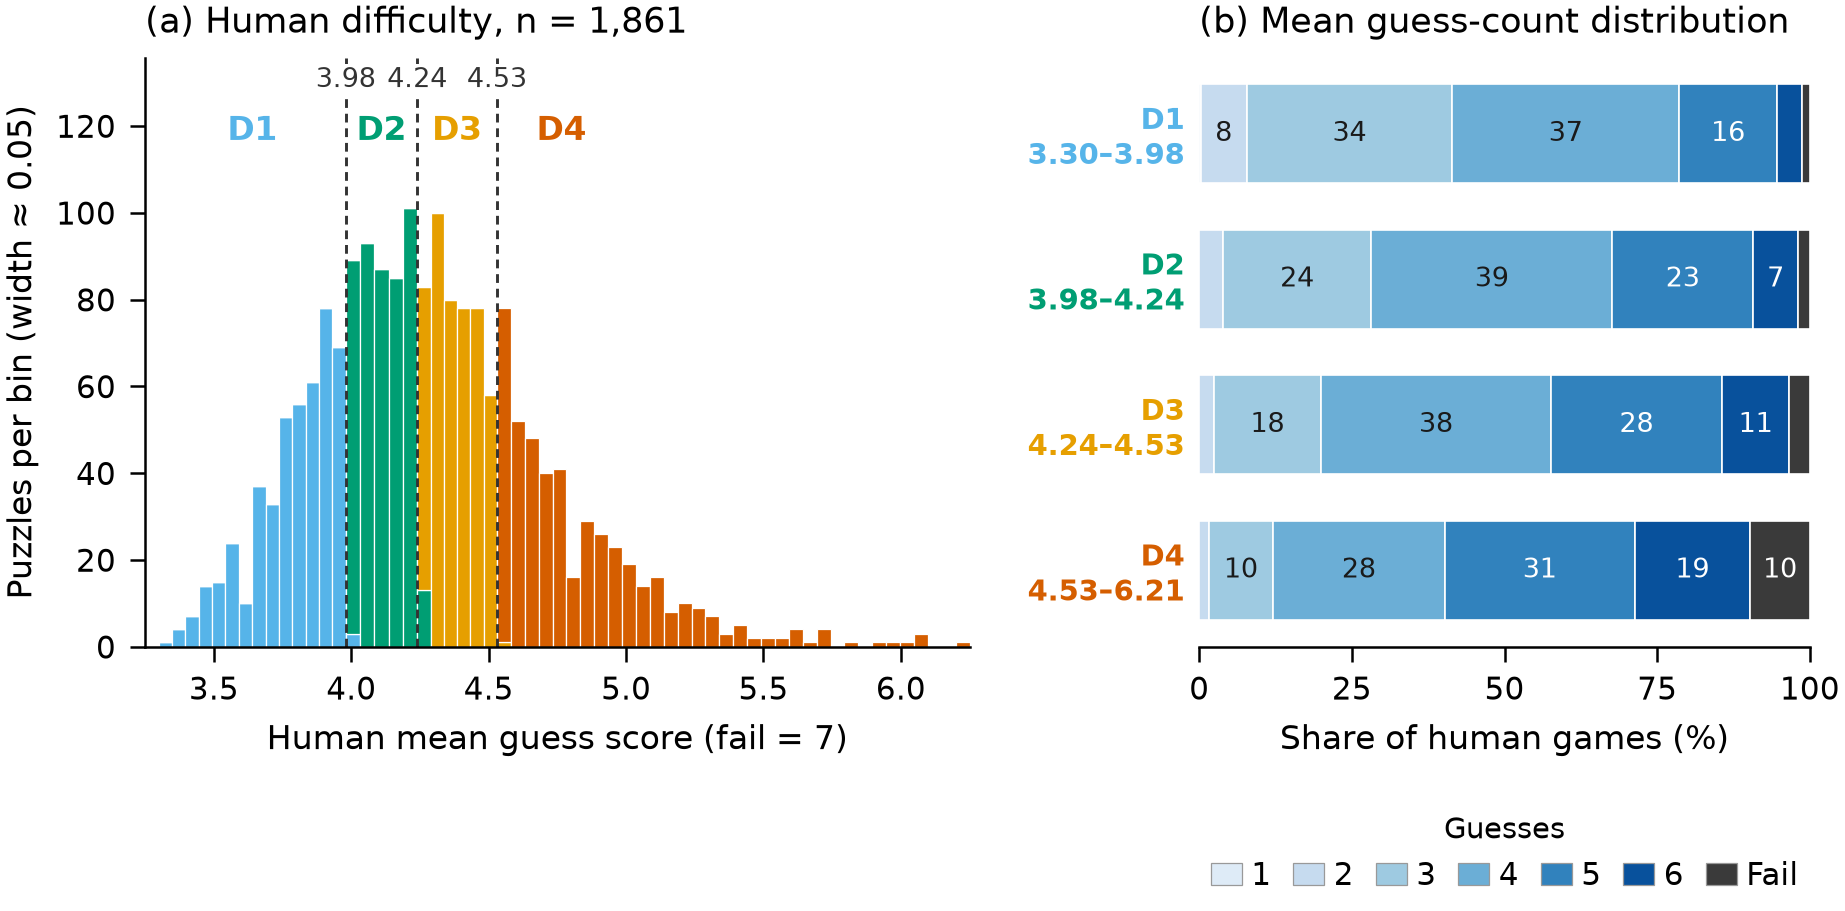
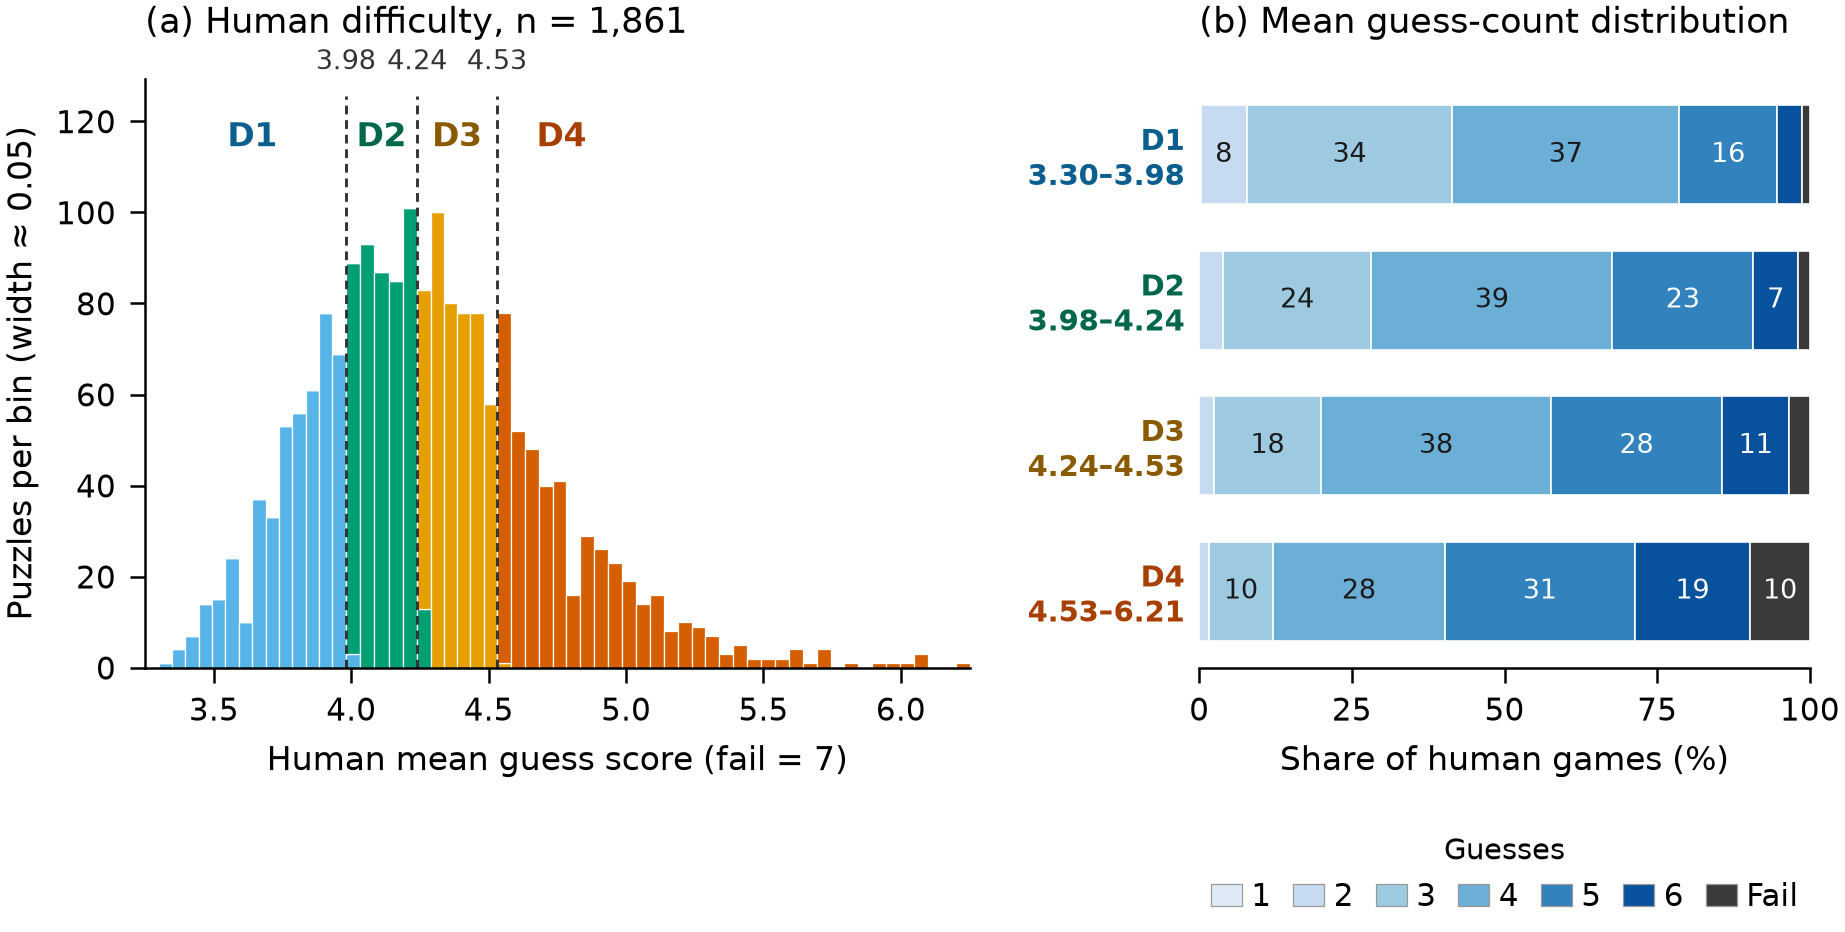
F1: darker label colours for contrast, move cut values above the axes

diff --git a/src/multi_agent_testing/experiment/plots.py b/src/multi_agent_testing/experiment/plots.py
@@ -45,6 +45,13 @@ QUARTILE_COLOURS = {
     "D3": "#E69F00",  # orange
     "D4": "#D55E00",  # vermillion
 }
+# Darker text variants of the same hues, for labels on white (WCAG >= 4.5:1).
+QUARTILE_TEXT_COLOURS = {
+    "D1": "#0B5F8F",
+    "D2": "#00674B",
+    "D3": "#8A5A00",
+    "D4": "#A63F00",
+}
 # Guess-count bins: light-to-dark blue for solves, a dark neutral for fail so
 # it never reads as "one more guess".
 BIN_COLOURS = ("#deebf7", "#c6dbef", "#9ecae1", "#6baed6", "#3182bd", "#08519c", "#3a3a3a")
@@ -127,12 +134,13 @@ def figure_f1(clean_csv: Path, quartiles_json: Path, output_dir: Path) -> list[P
         color=[QUARTILE_COLOURS[q] for q in QUARTILE_LABELS],
         edgecolor="white", linewidth=0.3, label=list(QUARTILE_LABELS),
     )
-    ymax = ax_hist.get_ylim()[1] * 1.28
+    ymax = ax_hist.get_ylim()[1] * 1.22
     ax_hist.set_ylim(0, ymax)
     for cut in cuts:
-        ax_hist.axvline(cut, color="#333333", linestyle=(0, (3, 2)), linewidth=0.7)
-        ax_hist.text(cut, ymax * 0.985, f"{cut:.2f}", ha="center", va="top", fontsize=6.5,
-                     color="#333333", bbox={"facecolor": "white", "edgecolor": "none", "pad": 0.6})
+        ax_hist.axvline(cut, ymax=0.97, color="#333333", linestyle=(0, (3, 2)), linewidth=0.7)
+        # Cut values sit just above the axes, clear of bars and labels.
+        ax_hist.text(cut, ymax * 1.005, f"{cut:.2f}", ha="center", va="bottom", fontsize=6.5,
+                     color="#333333", clip_on=False)
     centres = [
         (ranges["D1"]["min"] + cuts[0]) / 2,
         (cuts[0] + cuts[1]) / 2,
@@ -140,12 +148,12 @@ def figure_f1(clean_csv: Path, quartiles_json: Path, output_dir: Path) -> list[P
         (cuts[2] + 5.0) / 2,
     ]
     for label, x in zip(QUARTILE_LABELS, centres):
-        ax_hist.text(x, ymax * 0.875, label, ha="center", va="center", fontsize=8,
-                     fontweight="bold", color=QUARTILE_COLOURS[label])
+        ax_hist.text(x, ymax * 0.9, label, ha="center", va="center", fontsize=8,
+                     fontweight="bold", color=QUARTILE_TEXT_COLOURS[label])
     ax_hist.set_xlim(low, high)
     ax_hist.set_xlabel("Human mean guess score (fail = 7)")
     ax_hist.set_ylabel("Puzzles per bin (width \u2248 0.05)")
-    ax_hist.set_title(f"(a) Human difficulty, n = {spec['population_size']:,}", loc="left")
+    ax_hist.set_title(f"(a) Human difficulty, n = {spec['population_size']:,}", loc="left", pad=11)
 
     # (b) Mean 7-bin distribution per quartile.
     y_positions = list(range(len(QUARTILE_LABELS)))[::-1]  # D1 on top
@@ -166,13 +174,13 @@ def figure_f1(clean_csv: Path, quartiles_json: Path, output_dir: Path) -> list[P
         fontsize=7,
     )
     for tick, label in zip(ax_bins.get_yticklabels(), QUARTILE_LABELS):
-        tick.set_color(QUARTILE_COLOURS[label])
+        tick.set_color(QUARTILE_TEXT_COLOURS[label])
         tick.set_fontweight("bold")
     ax_bins.set_xlim(0, 1)
     ax_bins.set_xticks([0, 0.25, 0.5, 0.75, 1.0])
     ax_bins.set_xticklabels(["0", "25", "50", "75", "100"])
     ax_bins.set_xlabel("Share of human games (%)")
-    ax_bins.set_title("(b) Mean guess-count distribution", loc="left")
+    ax_bins.set_title("(b) Mean guess-count distribution", loc="left", pad=11)
     ax_bins.spines["left"].set_visible(False)
     ax_bins.tick_params(axis="y", length=0)
     handles = [Patch(facecolor=c, edgecolor="#999999", linewidth=0.3) for c in BIN_COLOURS]
